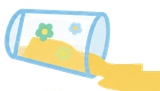
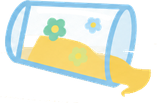
התפריט: הטלפון של כנרת בצבעי הפלטה, כוס המיץ עם שלולית קטנה שנכנסת בשלמותה
Claude-Session: https://claude.ai/code/session_013j9WWs2tPsu2xWpo5stbWr

diff --git a/components/SideMenu.tsx b/components/SideMenu.tsx
@@ -6,19 +6,17 @@ import { ACORN_BARE } from './art';
 const menuFont = Suez_One({ subsets: ['hebrew', 'latin'], weight: '400', display: 'swap' });
 
 // an old-style telephone handset, ink, for "ליצור קשר"
-// an old cream rotary telephone (Kinneret, 30.10.2026): body in cream, dial and handset in ink
-const PHONE = `<path d="M10 52c0-14 8-26 22-26s22 12 22 26z" fill="#F2E8CC" stroke="#22333B" stroke-width="2.5" stroke-linejoin="round"/><rect x="6" y="50" width="52" height="7" rx="3" fill="#F2E8CC" stroke="#22333B" stroke-width="2.5"/><circle cx="32" cy="40" r="9" fill="#FFFFFF" stroke="#22333B" stroke-width="2.2"/><circle cx="32" cy="33.5" r="1.6" fill="#22333B"/><circle cx="37.5" cy="36" r="1.6" fill="#22333B"/><circle cx="38" cy="42" r="1.6" fill="#22333B"/><circle cx="26.5" cy="36" r="1.6" fill="#22333B"/><circle cx="26" cy="42" r="1.6" fill="#22333B"/><circle cx="32" cy="46" r="1.6" fill="#22333B"/><path d="M10 24c0-5 4-7 7-7 3 0 5 2 5 5v4H10zM42 24c0-5 4-7 7-7 3 0 5 2 5 5v4H42z" fill="#22333B"/><path d="M16 22c4-8 28-8 32 0" fill="none" stroke="#22333B" stroke-width="5" stroke-linecap="round"/></svg>`.replace('</svg>', '');
 
 // The small menu under the filter panel (Kinneret, 30.10.2026): looks like a menu, not like filter chips.
 // "אודות" lives here instead of beside the recommend button; the suggest and report links open the popup forms (Forms.tsx);
-// "ליצור קשר" is shown but not active until its form exists (thread "בניית טופס יצירת קשר").
+// "ליצור קשר" is shown but not active until its form exists (thread "בניית טופס יצירת קשר"). The phone is Kinneret's own picture, recoloured to the palette.
 export default function SideMenu({ texts }: { texts: Texts }) {
   return (
     <nav className={'side-menu ' + menuFont.className} aria-label="תפריט">
       <a href="/about"><img className="ic" src="/art/menu-kinneret.png" alt="" />{texts['about.link']}</a>
       <a href="#suggest"><svg className="ic acorn" viewBox="10 3 44 61" aria-hidden="true" dangerouslySetInnerHTML={{ __html: ACORN_BARE }} />להמליץ על פנינה</a>
       <a href="#report"><img className="ic juice" src="/art/menu-juice.png" alt="" />לדווח על טעות</a>
-      <span className="soon" title="בקרוב"><svg className="ic" viewBox="0 0 64 64" aria-hidden="true" dangerouslySetInnerHTML={{ __html: PHONE }} />ליצור קשר</span>
+      <span className="soon" title="בקרוב"><img className="ic phone" src="/art/menu-phone.png" alt="" />ליצור קשר</span>
     </nav>
   );
 }

diff --git a/app/globals.css b/app/globals.css
@@ -111,11 +111,11 @@ a.chip.home{display:inline-block;text-decoration:none;line-height:1.3;white-spac
 .side-menu a,.side-menu .soon{display:flex;align-items:center;gap:10px;padding:8px 0;font-weight:400;font-size:1.05rem;color:var(--ink);text-decoration:none;border-bottom:1px solid rgb(34 51 59/.15)}
 .side-menu .ic{width:26px;height:26px;flex:none;object-fit:contain}
 .side-menu .ic.acorn{height:30px;width:22px;transform:rotate(-14deg)}
-.side-menu .ic.juice{width:34px}
+.side-menu .ic.juice{width:30px}
+.side-menu .ic.phone{width:34px}
 .side-menu a:last-child,.side-menu .soon:last-child{border-bottom:0}
 .side-menu a:hover{color:var(--teal)}
 .side-menu .soon{color:var(--muted);cursor:default}
-.side-menu .soon .ic{opacity:.55}
 .main[data-panel="closed"] .side-menu{display:none}
 .main[data-panel="closed"]{grid-template-columns:46px minmax(0,1fr)}
 /* Kinneret, 30.10.2026: both panels always fully open, no inner scrolling (they may run below the fold) */
